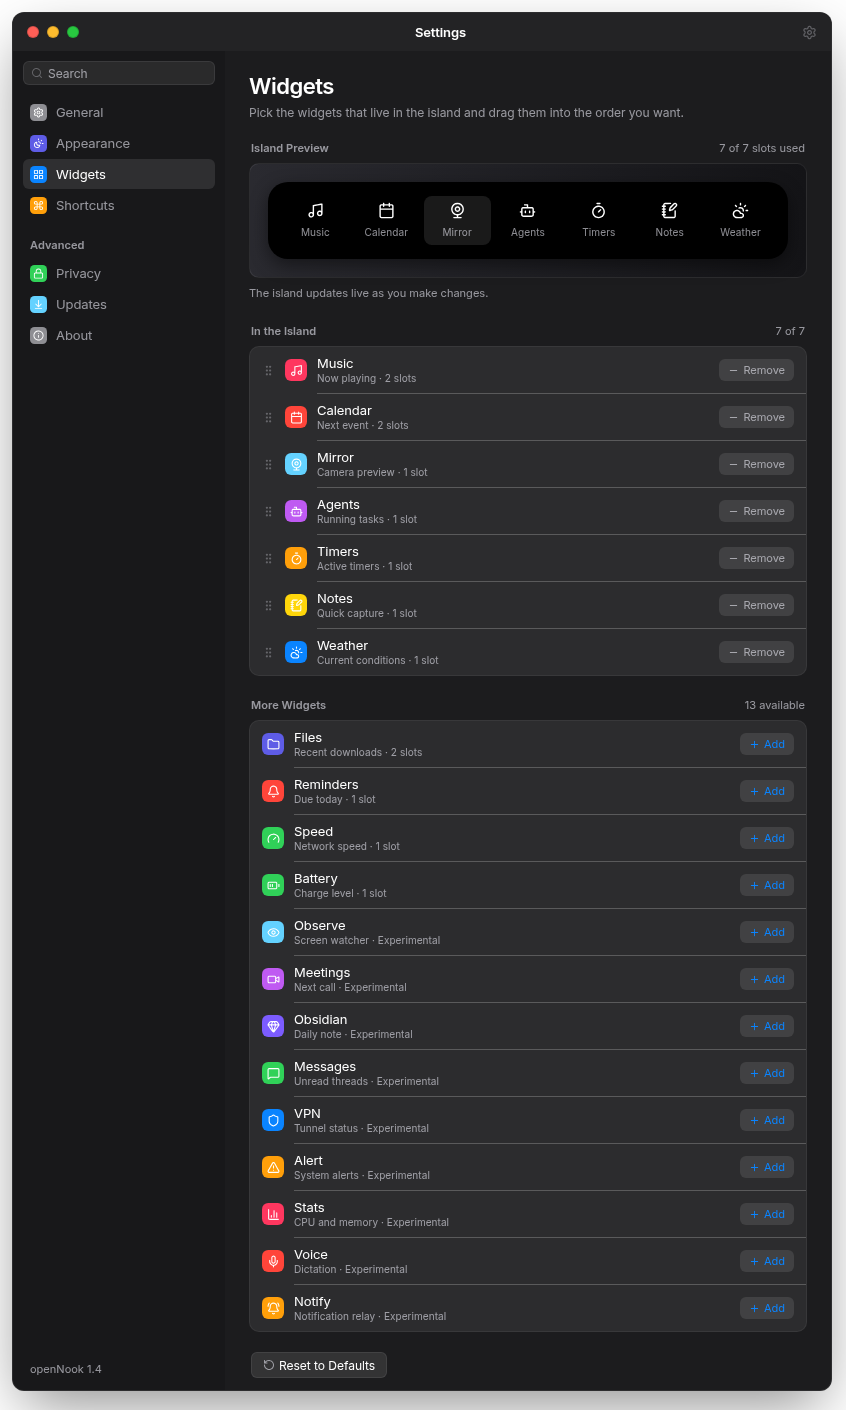
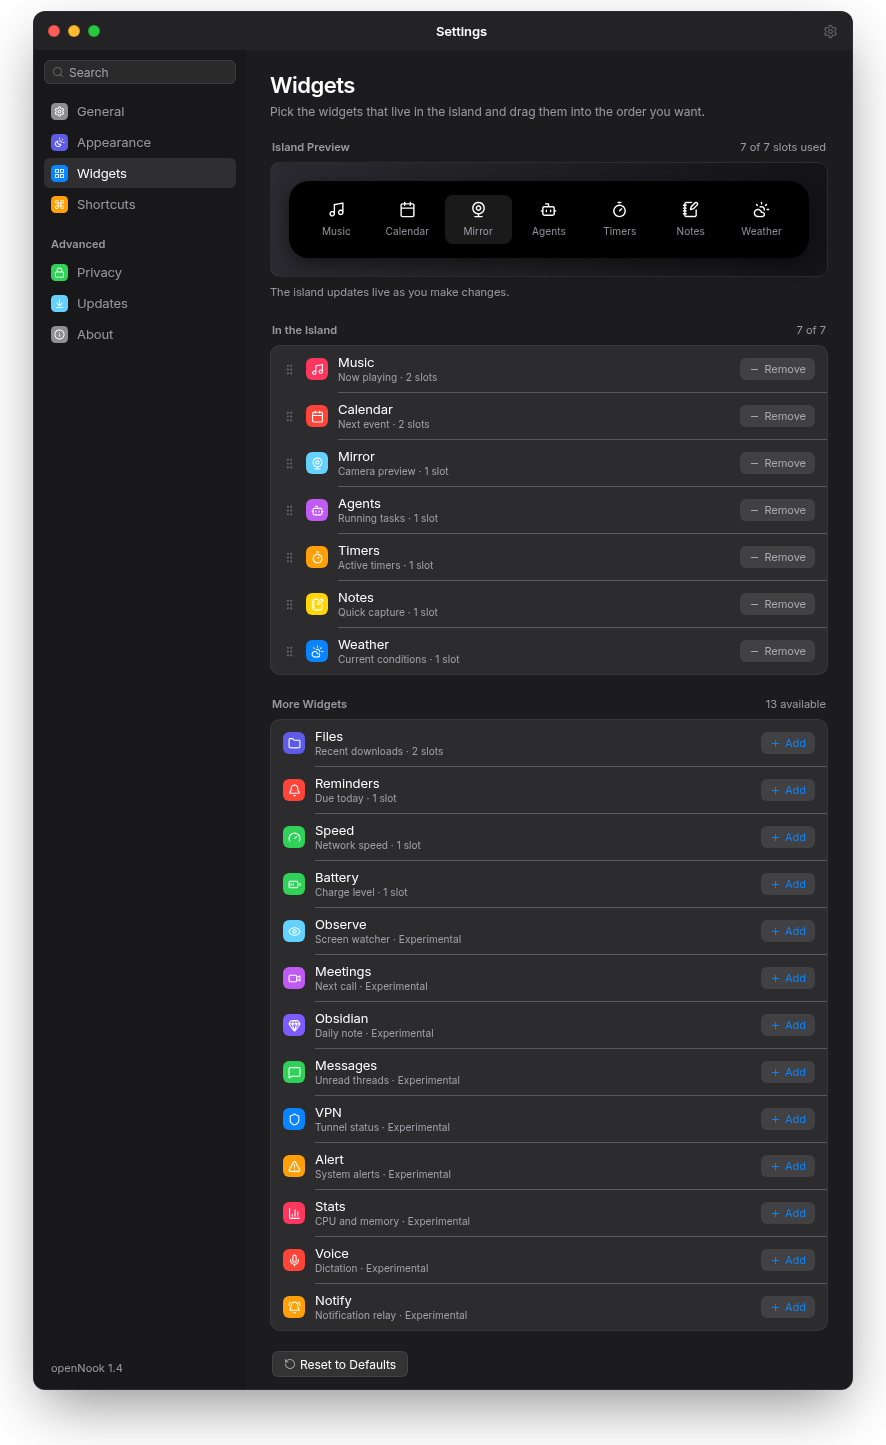
Tighten NOOK-MOCK-0923 stills to 1:1 mock chrome bounds.
Re-crop compact to the exact desktop panel (no white artboard),
expanded/tray to AA-inclusive island chrome, and Settings to the
window plus its visible drop shadow, stopping before the gallery.

Changed region(s): [[0.0, 0.0, 1.0, 1.0], [0.4917, 0.0, 0.5532, 0.0312]]

diff --git a/docs/README.md b/docs/README.md
@@ -8,6 +8,6 @@ Primary CTA is macOS 1.0.0: https://github.com/prodBirdy/openNook/releases/downl
 
 Linux secondary is the 1.0.0 GPUI tarball: https://github.com/prodBirdy/openNook/releases/download/v1.0.0-linux/openNook-1.0.0-x86_64-unknown-linux-gnu.tar.gz
 
-Gallery frames are product stills cropped from the NOOK-MOCK-0923 design mock (`docs/linux-03-*.png`). They are not live Linux GPUI captures.
+Gallery frames are 1:1 crops from the NOOK-MOCK-0923 export artboard (`docs/linux-03-*.png`): compact desktop panel, expanded Nook chrome, Tray chrome, Settings Widgets window + drop shadow. They are not live Linux GPUI captures.
 
 Pages is not enabled from this work. After merge: Settings → Pages → Deploy from a branch → `main` · `/docs`. No CNAME.
